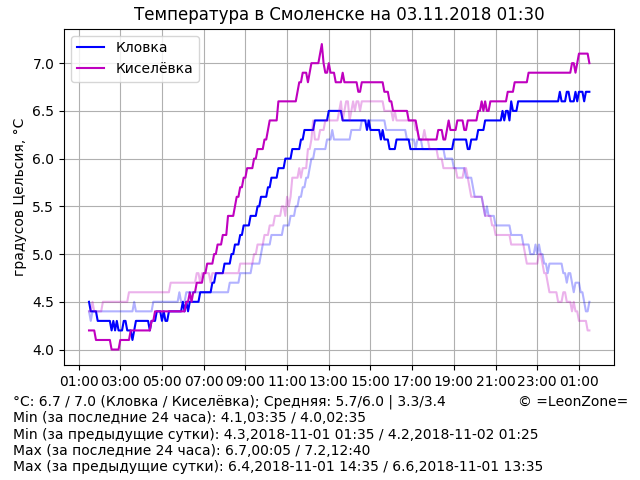
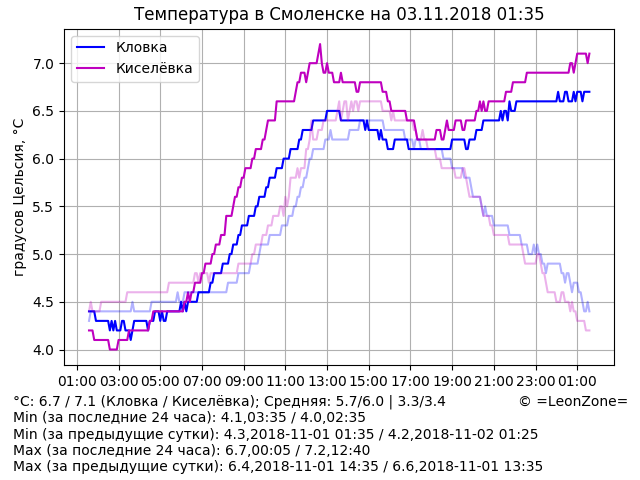
Update data

diff --git a/index.html b/index.html
@@ -14,7 +14,7 @@
 	<p align="center"><script>document.write("<img src=\"graph.png?rnd="+Math.random()+"\" alt=\"Температура в Смоленске\" align=\"middle\" width=\"640\" height=\"480\" />")</script>
 	<p hidden="true">
 <!-- textinfo -->
-°C: 6.7 / 7.0 (Кловка / Киселёвка); Средняя: 5.7/6.0 | 3.3/3.4
+°C: 6.7 / 7.1 (Кловка / Киселёвка); Средняя: 5.7/6.0 | 3.3/3.4
 Min (за последние 24 часа): 4.1,03:35 / 4.0,02:35
 Min (за предыдущие сутки): 4.3,2018-11-01 01:35 / 4.2,2018-11-02 01:25
 Max (за последние 24 часа): 6.7,00:05 / 7.2,12:40
